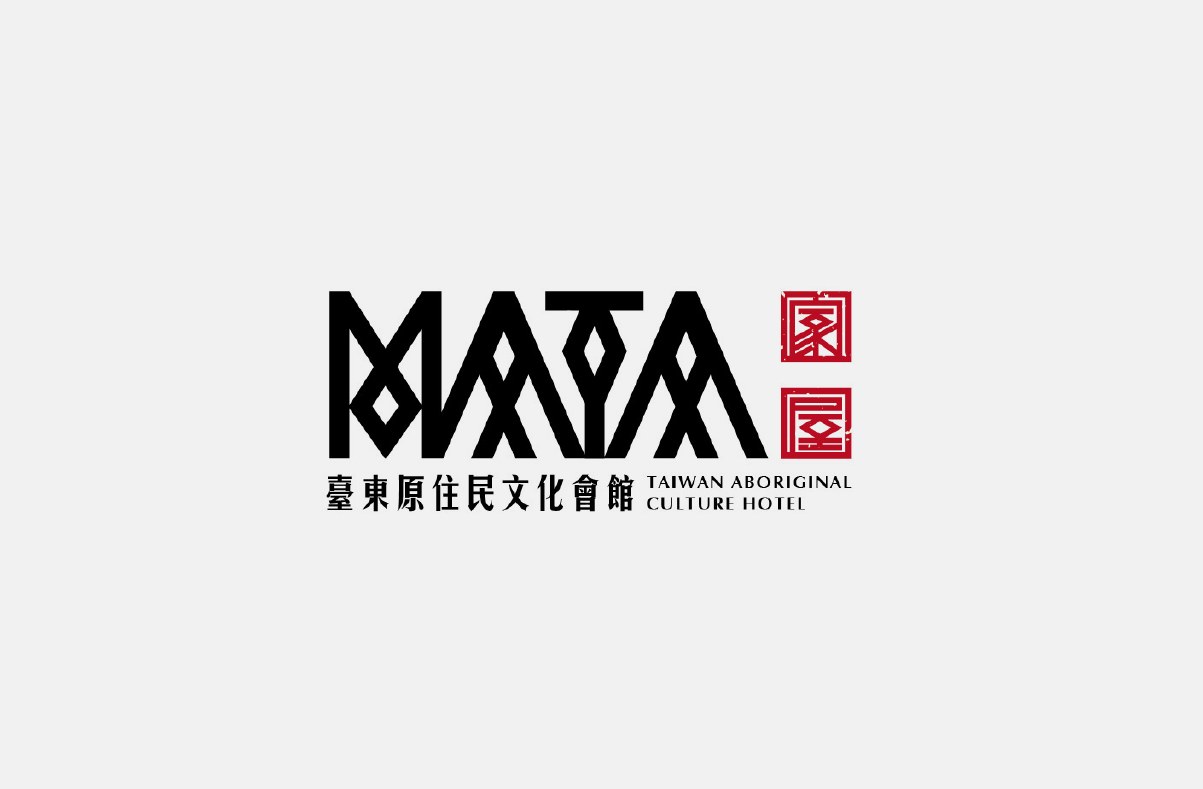
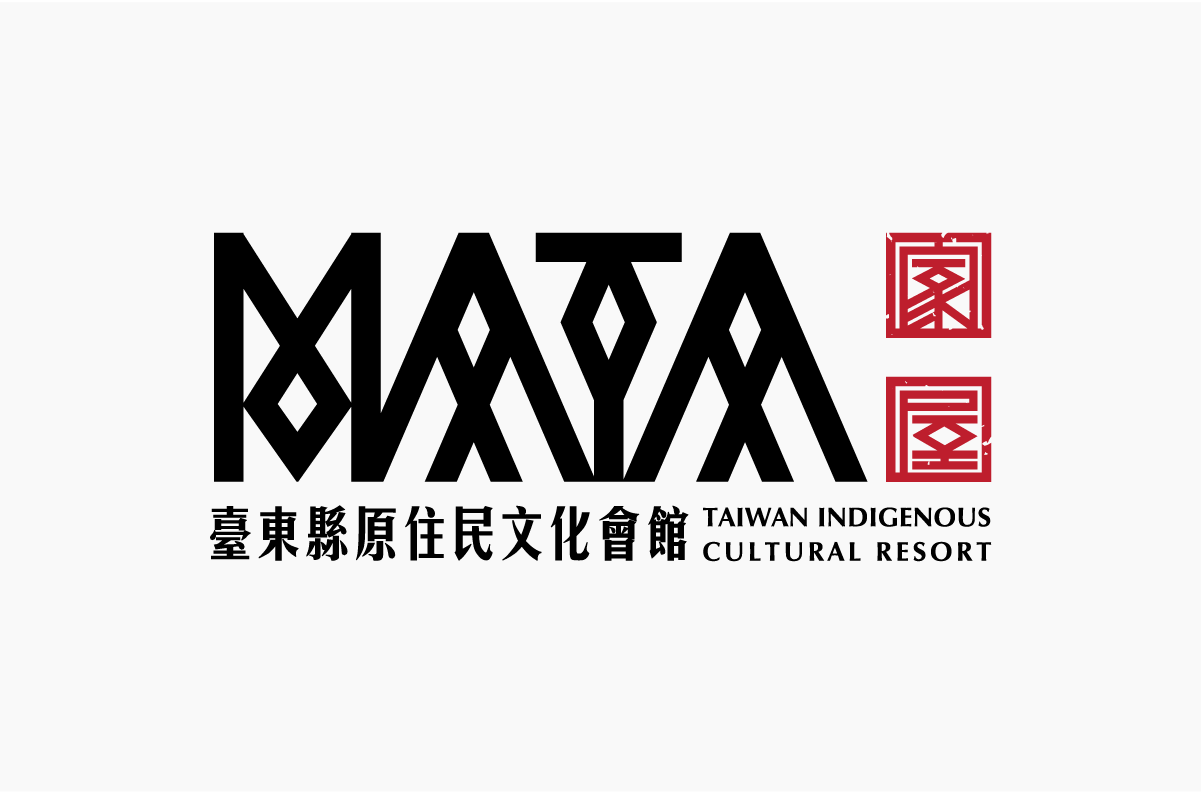
update 'Windscape' and 'MATA' projects

Changed region(s): [[0.154, 0.2738, 0.8318, 0.73], [0.7394, 0.2738, 0.8318, 0.4259]]

diff --git a/src/app/project/shared/project.service.ts b/src/app/project/shared/project.service.ts
@@ -174,35 +174,6 @@ const Projects: ProjectLite[] = [
     ]
   },
   {
-    chineseName: '輕地方',
-    englishName: 'WINDSCAPE',
-    about: '',
-    descriptions: [
-      'Client – 輕地方WINDSCAPE',
-      'Design Agency –自由落體設計FREEIMAGE design',
-      'Photographer - 鄭鼎Cheng Dean',
-      'Editorial Design – 鄭又綺 Cheng Yu Chi',
-      'Responsibility- LOGO',
-    ],
-    name: 'Windscape',
-    projectDetails: [
-      'WINDSCAPE - Logo Design',
-      'WINDSCAPE - Logo Design',
-      'WINDSCAPE - Logo Design',
-      'WINDSCAPE - Brochure',
-      'WINDSCAPE - Brochure',
-      'WINDSCAPE - Brochure',
-      'WINDSCAPE - Brochure',
-      'WINDSCAPE - Brochure',
-      'WINDSCAPE - Brochure'
-    ],
-    categories: [
-      Categories.Editorial,
-      Categories.Identity,
-      Categories.Graphic,
-    ]
-  },
-  {
     chineseName: '2015金點概念設計獎',
     englishName: '2015 Golden Pin Concept Design Award',
     about: `自2015年起，金點設計獎品牌之下依專業設計類別分設「金點設計獎」、「金點概念設計獎」及「金點新秀設計獎」等3大獎別，旨在褒揚華人傑出的創新產品與作品。「金點概念設計獎」開放全球各地對創意設計有熱忱、對改變社會有想法的設計菁英與同好參與。
@@ -279,6 +250,38 @@ const Projects: ProjectLite[] = [
       Categories.Graphic,
       Categories.Identity,
       Categories.Package,
+    ]
+  },
+  {
+    chineseName: '輕地方',
+    englishName: 'WINDSCAPE',
+    about: `輕地方的甜點，是為愛為生的甜點心。
+    法式點心是甜的，為了讓所愛的人享用健康美味的甜點心，更甜。
+    
+    甜甜的心，不私藏，創辦人決定在摯愛的新竹市開甜甜的「輕地方」，用最健康、新鮮、頂級的食材，手作法式點心；讓身體無負擔，荷包無壓力，心情無憂煩。創造一個屬於每個人的輕鬆、輕快、輕盈的輕地方，一個重感情的好地方。`,
+    descriptions: [
+      'Client – 輕地方WINDSCAPE',
+      'Design Agency - 自由落體設計FREEIMAGE design',
+      'Photographer - 鄭鼎Cheng Dean',
+      'Editorial Design – 鄭又綺 Cheng Yu Chi',
+      'Responsibility- LOGO',
+    ],
+    name: 'Windscape',
+    projectDetails: [
+      'WINDSCAPE - Logo Design',
+      'WINDSCAPE - Logo Design',
+      'WINDSCAPE - Logo Design',
+      'WINDSCAPE - Brochure',
+      'WINDSCAPE - Brochure',
+      'WINDSCAPE - Brochure',
+      'WINDSCAPE - Brochure',
+      'WINDSCAPE - Brochure',
+      'WINDSCAPE - Brochure'
+    ],
+    categories: [
+      Categories.Editorial,
+      Categories.Identity,
+      Categories.Graphic,
     ]
   },
   {
@@ -602,7 +605,7 @@ const Projects: ProjectLite[] = [
   {
     chineseName: 'MATA家屋 － 臺東縣原住民文化會館',
     englishName: 'Taiwan Indigenous Cultural Resort',
-    about: ``,
+    about: `「MATA」為南島民族語中「眼睛、看見」之意。會館以原住民為主題訴求，藉由會館空間之展示、旅遊活動之推廣，看見臺灣東部原住民族的生活、美學文化；並與每年在此舉辦之南島文化節相結合，訴求台灣與南島民族之連結。`,
     descriptions: [
       'Client - 臺東縣原住民文化會館Taiwan Indigenous Cultural Resort',
       'Design Agency - 自由落體設計FREEIMAGE design',
